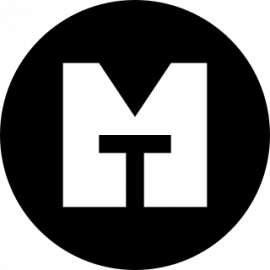
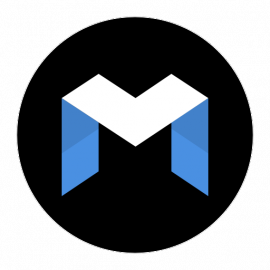
Novo ícone
- Ajustes no novo ícone

diff --git a/index.html b/index.html
@@ -35,9 +35,21 @@
         <h1 class="title italic">Matheus Pereira</h1>
       </header>
       <figure class="intro_logo">
-        <svg class="logo_img" viewBox="0 0 128 128" xmlns="http://www.w3.org/2000/svg">
-          <path d="M64 124c33.137 0 60-26.863 60-60S97.137 4 64 4 4 30.863 4 64s26.863 60 60 60zM48 32l16 24 16-24h16v64H68V72h12v-8H48v8h12v24H32V32h16z" fill-rule="evenodd"/>
+        <svg xmlns="http://www.w3.org/2000/svg" class="logo_img" viewBox="0 0 512 512">
+          <g fill="none" fill-rule="evenodd" >
+            <path stroke-width="10" stroke="#FFFFFF" d="M256,480 C379.711784,480 480,379.711784 480,256 C480,132.288216 379.711784,32 256,32 C132.288216,32 32,132.288216 32,256 C32,379.711784 132.288216,480 256,480 Z"/>
+            <g fill="#4A90E2" transform="translate(117 243)">
+              <polygon points="0 129 0 47 70 0 70 82"/>
+              <polygon points="208 0 278 47 278 129 208 82"/>
+            </g>
+            <g fill="#4281CA" transform="translate(117 186)">
+              <polygon points="0 105 0 0 70 46 70 58"/>
+              <polygon points="208 46 278 0 278 105 208 58"/>
+            </g>
+            <polygon fill="#FFFFFF" points="187 140 257 186 325 140 395 186 257 278 117 186" class="logo-arrow" />
+          </g>
         </svg>
+
       </figure>
       <section class="intro_text clearfix">
         <section class="text clearfix">
@@ -71,7 +83,6 @@
 
   ga('create', 'UA-78989064-1', 'auto');
   ga('send', 'pageview');
-
 </script>
 </body>
 </html>

diff --git a/stylesheets/stylesheet.css b/stylesheets/stylesheet.css
@@ -14,7 +14,7 @@ body{background-color:#101010;font:400 1.375em/1.8 'Merriweather Sans';color:#ff
 
 .intro_logo{position:relative;width:100%;max-width:160px;min-height:160px;margin:0 auto;border-radius:200px;-webkit-transition:ease-in 300ms;-moz-transition:ease-in 300ms;-o-transition:ease-in 300ms;-ms-transition:ease-in 300ms;transition:ease-in 300ms;}
 
-.intro_logo:hover{border:2px solid #ffffff;background-color:#000;}
+.intro_logo:hover{background-color:#FFF;}
 
 .intro_header,.intro_text{width:96%;margin:0 auto;padding-top:30px;padding-bottom:30px;}
 
@@ -27,6 +27,11 @@ body{background-color:#101010;font:400 1.375em/1.8 'Merriweather Sans';color:#ff
 .logo_img{fill:#FFF;display:block;position:absolute;top:0;bottom:0;left:0;right:0;z-index:15;width:128px;height:auto;margin:auto;overflow:hidden;-webkit-transition:cubic-bezier(.68,-0.55,.27,1.55) 300ms;-moz-transition:cubic-bezier(.68,-0.55,.27,1.55) 300ms;-o-transition:cubic-bezier(.68,-0.55,.27,1.55) 300ms;-ms-transition:cubic-bezier(.68,-0.55,.27,1.55) 300ms;transition:cubic-bezier(.68,-0.55,.27,1.55) 300ms;}
 
 .logo_img:hover{-webkit-transform:scale(1.2);-moz-transform:scale(1.2);-o-transform:scale(1.2);-ms-transform:scale(1.2);transform:scale(1.2);}
+
+.logo_img:hover .logo-arrow{fill: #424242;}
+.logo-arrow{}
+.logo-base{}
+.logo-shadow{}
 
 .md{width:25%;}
 
